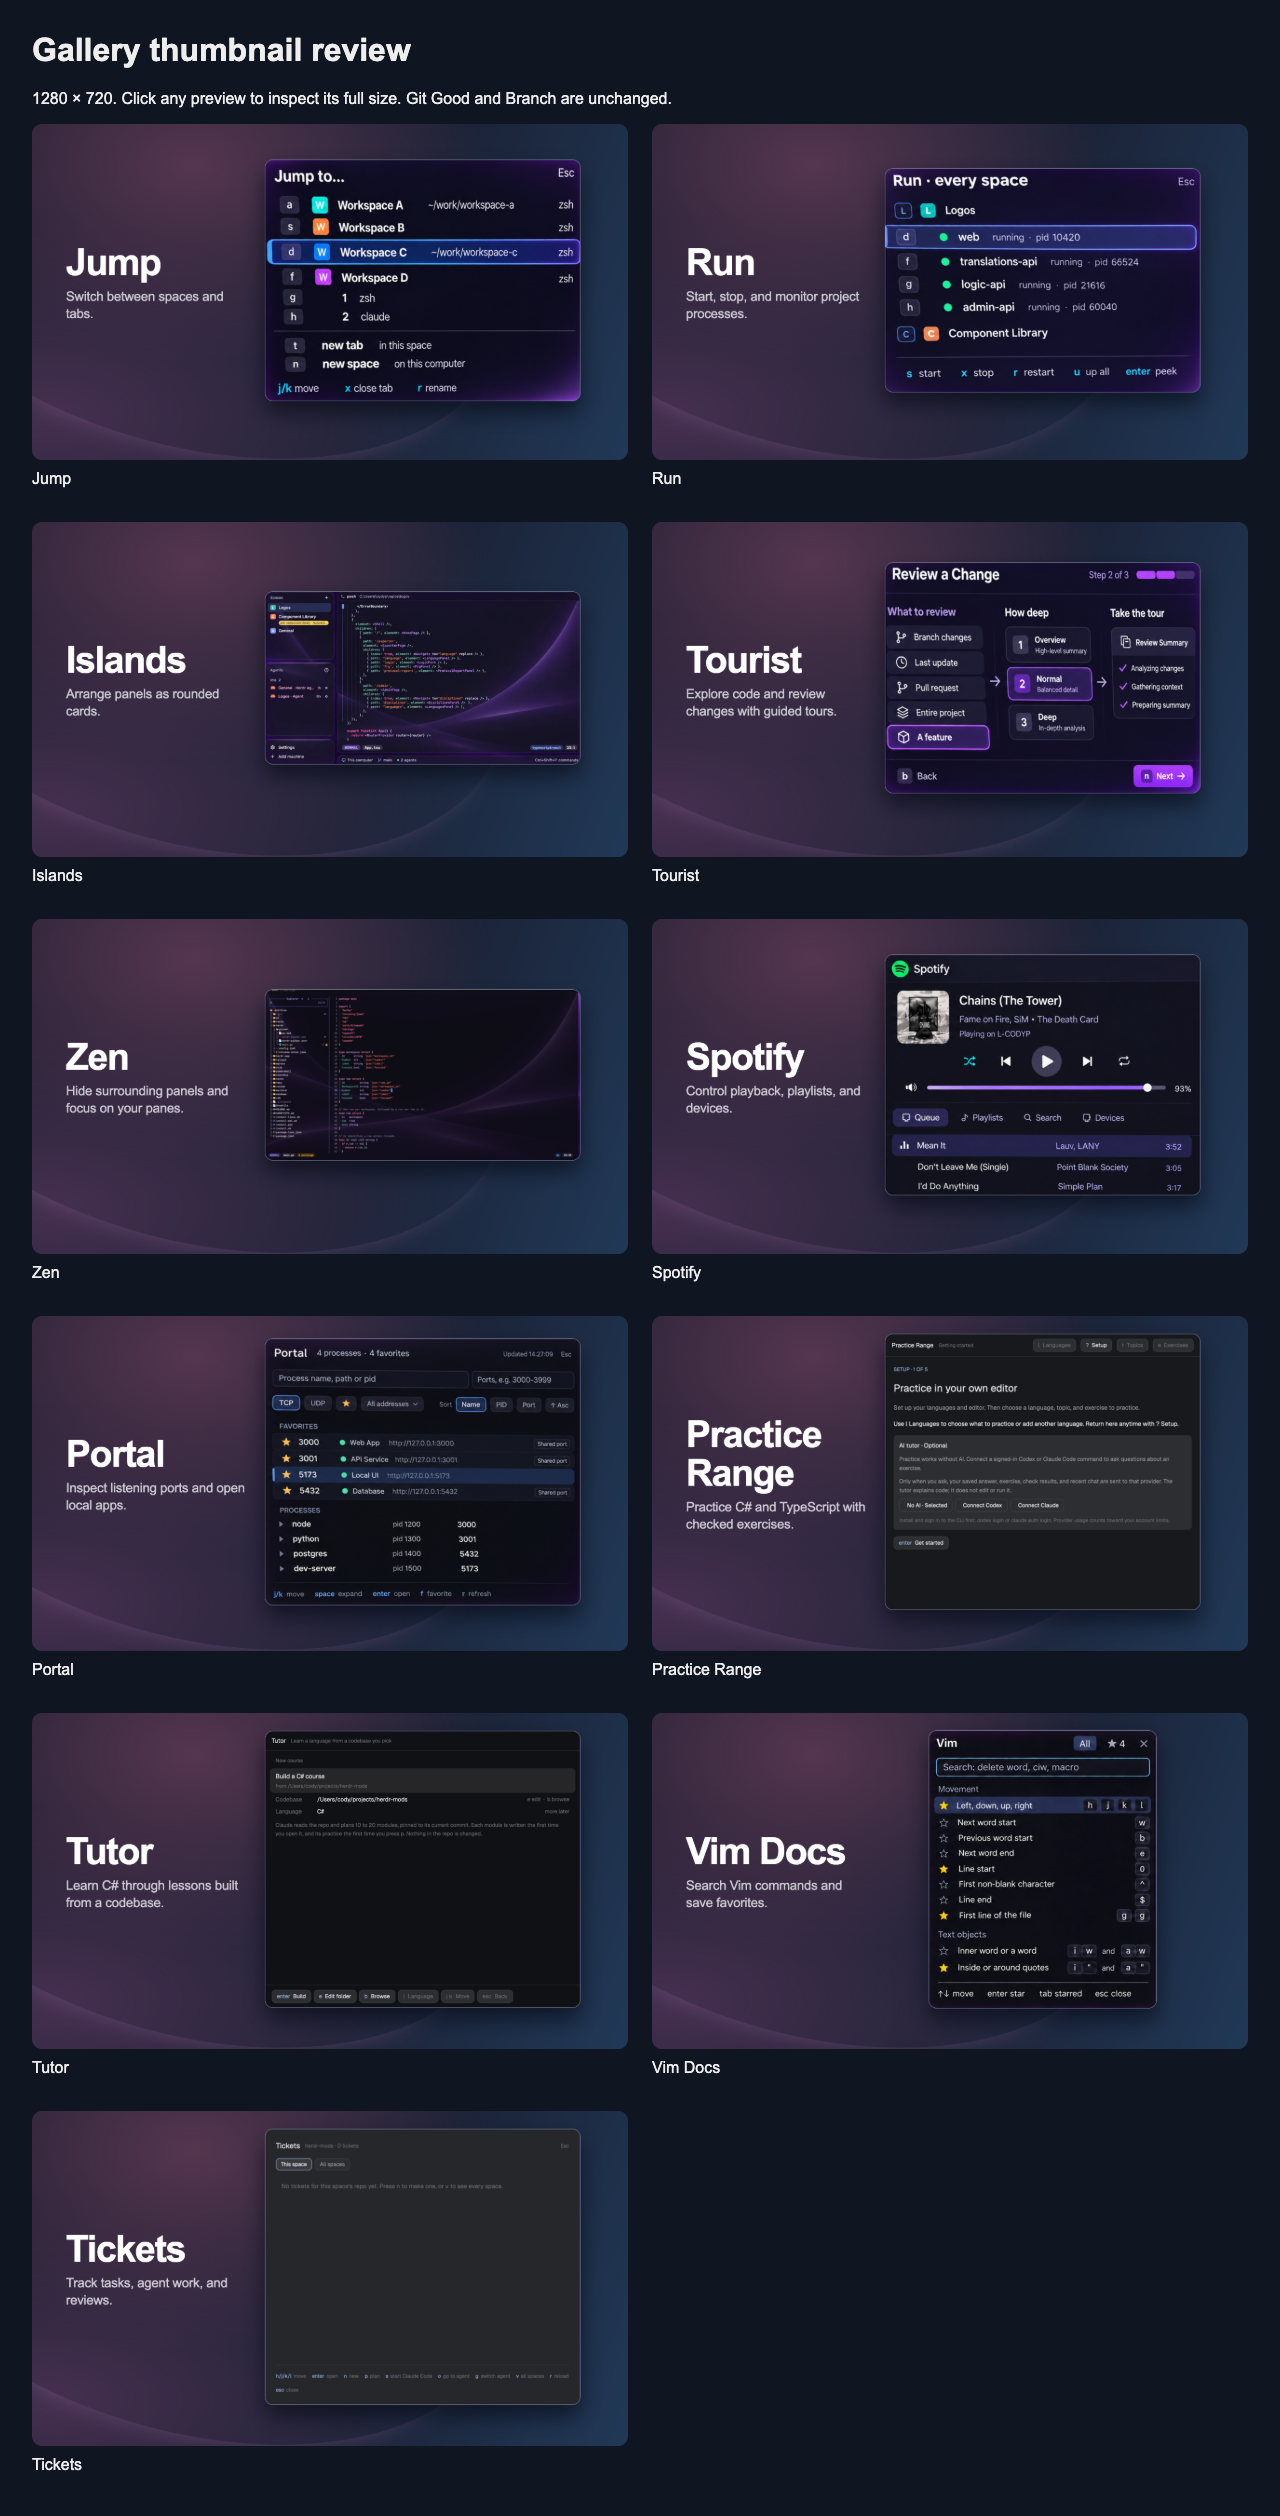
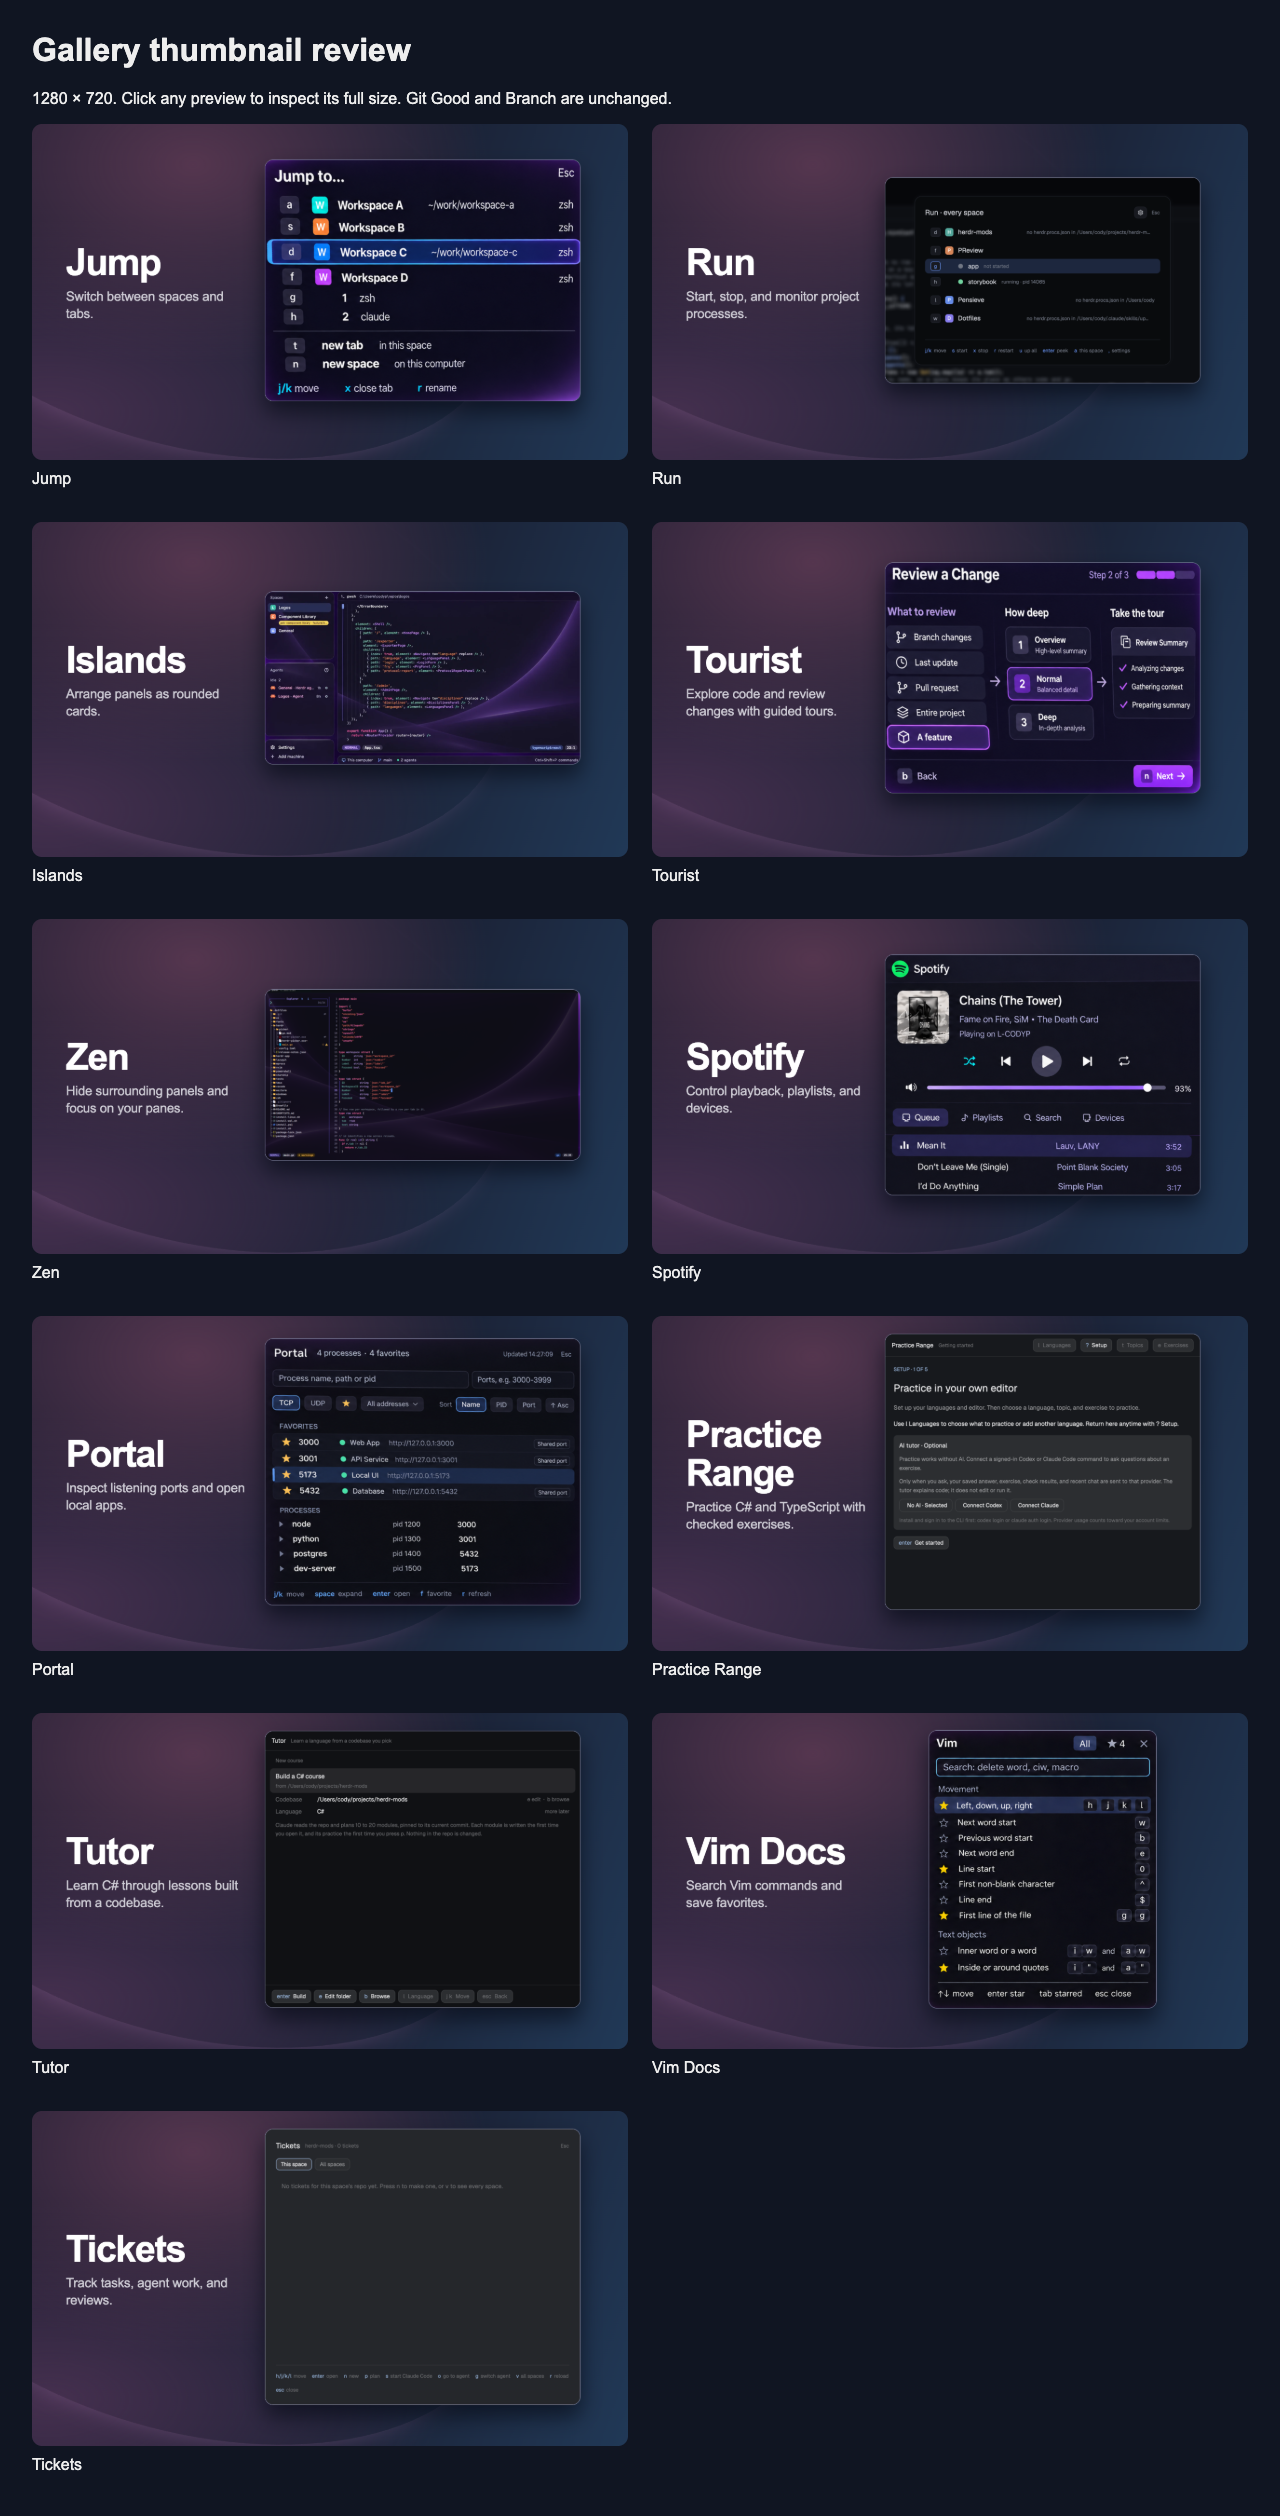
Use supplied Run screenshot with blurred surroundings

Changed region(s): [[0.6875, 0.062, 0.9375, 0.155]]

diff --git a/gallery/INVENTORY.md b/gallery/INVENTORY.md
@@ -6,7 +6,7 @@ The supplied approved reference is preserved as `reference.jpg`. Branch and Git 
 | --- | --- | --- |
 | Branch | `branch/preview.png`, `branch/thumbnail.png` | Already approved. Unchanged. |
 | Jump | `jump/preview.png` | UI crop from the old preview |
-| Run | `run/preview.png` | UI crop from the old preview, showing running processes |
+| Run | `run/preview.png` | Supplied Run screenshot, with the surrounding editor lightly blurred |
 | Islands | `islands/preview.png` | UI crop from the old preview, showing cards and code |
 | Tourist | `tourist/preview.png` | UI crop from the old preview, showing review scope and depth |
 | Zen | `zen/preview.png`, `zen/thumbnail-v6.png` | UI crop from the old Zen thumbnail, showing the focused editor |
@@ -21,7 +21,7 @@ Every updated mod has a matching `preview.png` and `thumbnail.png` at 1280 × 72
 
 This branch is based on main. Tickets is present in the user's work branch, so only its gallery assets are added here. Its implementation stays on that work branch. Existing untracked thumbnail experiments in the original checkout are untouched.
 
-Eight screenshots reuse the UI panels from the old images at commit `90949f0`. Their crop coordinates are in `screenshot-crops.json`. Perspective is straightened by resampling the existing pixels. No UI is generated or redrawn. Outer promotional artwork and glowing frames are cropped away. Practice Range, Tutor, and Tickets have no older image in Git history, so their native captures remain unchanged. UI key legends and control icons remain inside the screenshots. No promotional branding, badges, icons, key callouts, or slogans were added.
+Seven screenshots reuse the UI panels from the old images at commit `90949f0`. Run uses the supplied screenshot with an 8 px background blur and the original dialog pixels preserved. Crop coordinates and blur settings are in `screenshot-crops.json`. Perspective is straightened by resampling the existing pixels. No UI is generated or redrawn. Outer promotional artwork and glowing frames are cropped away. Practice Range, Tutor, and Tickets have no older image in Git history, so their native captures remain unchanged. UI key legends and control icons remain inside the screenshots. No promotional branding, badges, icons, key callouts, or slogans were added.
 
 The shared composition is in `template.html`. Titles, descriptions, prior assets, and screen states are in `mods.json`. To reproduce with Playwright and Chrome installed:
 
@@ -31,4 +31,4 @@ node scripts/render-thumbnails.mjs
 
 An existing installation can be selected with `PLAYWRIGHT_MODULE`. `BROWSER_CHANNEL` defaults to `chrome`. Open `index.html` for every full-size preview, or `preview.png` for the contact sheet.
 
-To extract the eight old UI panels again, install `sharp` and run `node scripts/extract-thumbnail-screenshots.mjs` before rendering. `SHARP_MODULE` can select an existing installation.
+To prepare the screenshots again, install `sharp` and run `node scripts/extract-thumbnail-screenshots.mjs` before rendering. `SHARP_MODULE` can select an existing installation.
